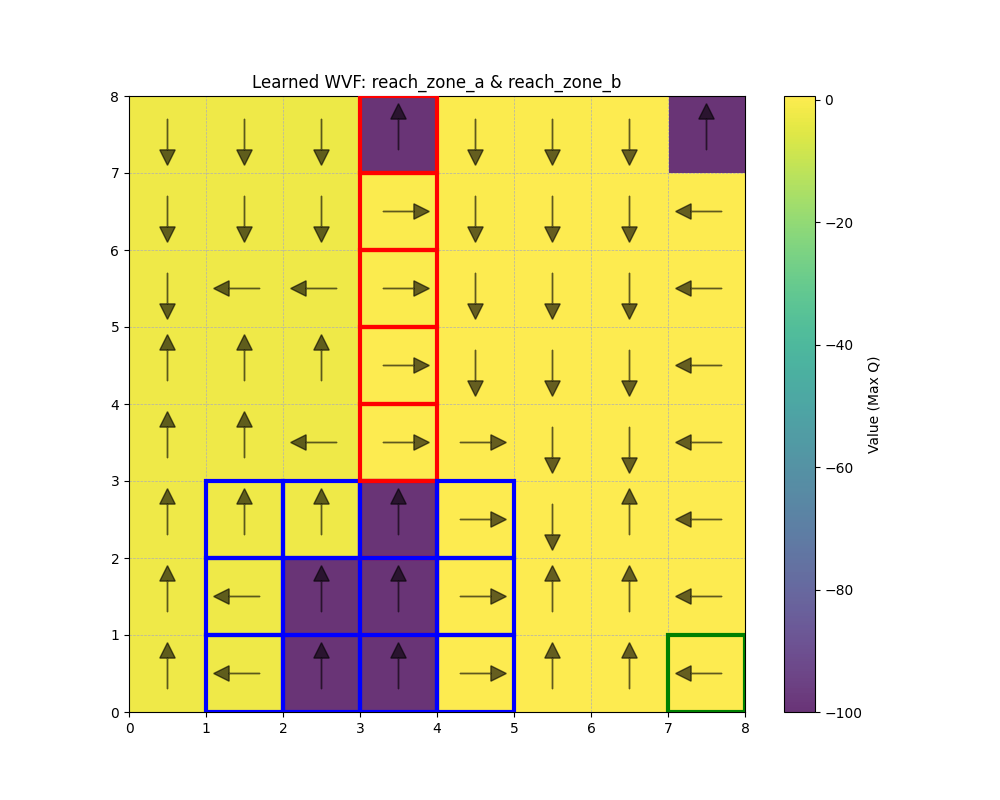
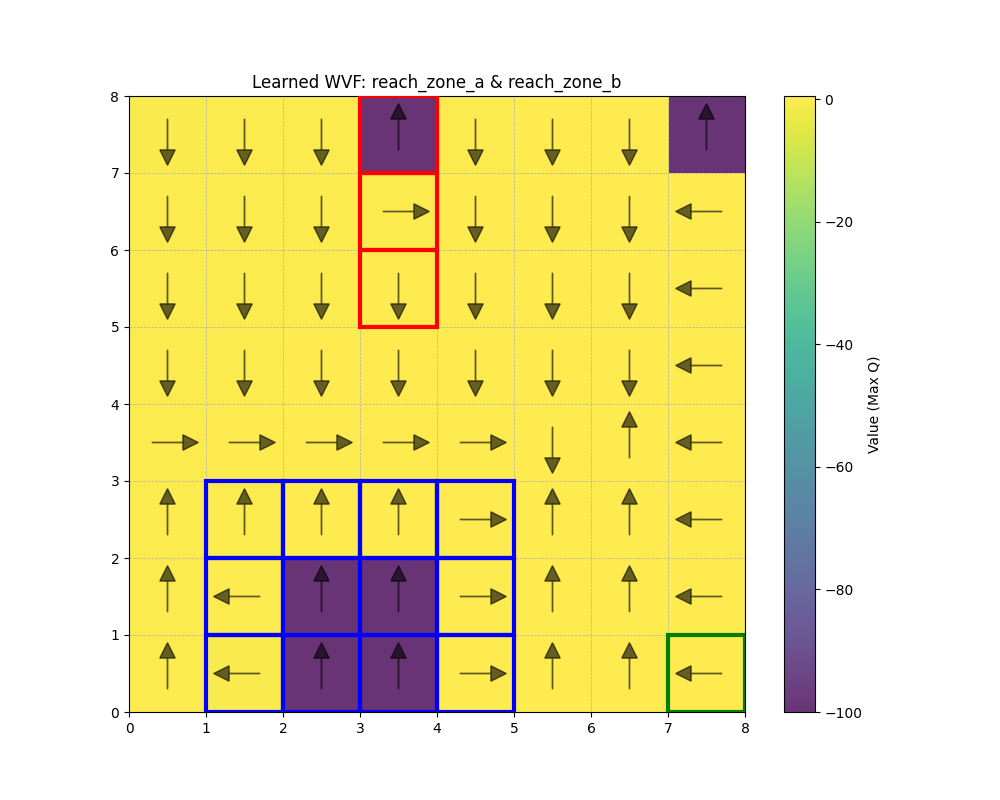
Add decision tree policy

diff --git a/project/extension/tests/test_ltlf2dfa.py b/project/extension/tests/test_ltlf2dfa.py
@@ -20,7 +20,7 @@ def test_sequential_ltlf_policy():
     env = GridWorldEnv(x_min=0, x_max=7, y_min=0, y_max=7)
     
     # 2. Define Regions & Task Predicates
-    goal_a_pred = lambda s: s.x == 3 and 1 <= s.y <= 7
+    goal_a_pred = lambda s: s.x == 3 and 5 <= s.y <= 7
     goal_b_pred = lambda s: s.x == 7 and s.y == 0
     goal_c_pred = lambda s: 1 <= s.x <= 4 and 0 <= s.y <= 2
 
@@ -54,12 +54,12 @@ def test_sequential_ltlf_policy():
     else:
         print("\nNo checkpoint found. Training agent...")
         # Increase episodes to handle the wall/8x8 space
-        train_goal_oriented(env, agent, episodes=100000, verbose=False)
+        train_goal_oriented(env, agent, episodes=500000, verbose=False)
         print(f"Saving trained agent to {checkpoint_path}...")
         agent.save(checkpoint_path)
 
     # 4. LTLf Task Composition
-    formula_str = "(F reach_zone_a && X F reach_zone_b)"
+    formula_str = "avoid_zone_a U (reach_zone_b && XF reach_zone_a)"
     print(f"\nComposing LTLf Task: {formula_str}")
     ltlf_task = LTLfTask(formula_str, agent)
     ltlf_task.print_dfa_info()
@@ -77,25 +77,34 @@ def test_sequential_ltlf_policy():
         dt_edge_policies = ltlf_task.load_dt_policies(dt_checkpoint_path)
     else:
         print("\nExtracting VIPER Decision Trees for composed policies...")
-        # Use standard VIPER parameters. 
+        # Increase parameters to improve DT accuracy and resolve infinite loops
         dt_edge_policies = ltlf_task.extract_dt_policies(
             env, 
             max_depth=100,
             max_iters=5, 
             n_batch_rollouts=1000, 
             max_samples=500000,
-            n_test_rollouts=200,
-            accepting_states={"5"}
+            n_test_rollouts=50,
+            accepting_states={"4"}
         )
-    print(f"Saving distilled DT policies to {dt_checkpoint_path}...")
-    ltlf_task.save_dt_policies(dt_edge_policies, dt_checkpoint_path)
+        print(f"Saving distilled DT policies to {dt_checkpoint_path}...")
+        ltlf_task.save_dt_policies(dt_edge_policies, dt_checkpoint_path)
+
+    # 6.5 Visualize Distilled DT Policies
+    print("\nVisualizing Distilled Decision Tree Policies...")
+    for (u, v), dt_policy in dt_edge_policies.items():
+        attr = ltlf_task.nx_graph.get_edge_data(u, v)[0]
+        composed_expr = attr.get('composed_expr', f'edge_{u}_{v}')
+        save_path = os.path.join(static_dir, f"dt_policy_{composed_expr}.png")
+        print(f"  Rendering DT policy for edge {u} -> {v}: {composed_expr}")
+        renderer.render_policy(dt_policy, f"DT: {composed_expr}", save_path=save_path)
 
     # 7. Simulation Loop
     from extension.executor import TaskExecutor, QFunctionPolicy
 
     # Have to manually pass accepting states due to bug in pydot conversion
     tracker = DFATracker(ltlf_task.nx_graph, agent.tasks)
-    tracker.accepting_states = {"5"}  # Patch bug with MONA parse
+    tracker.accepting_states = {"4"}  # Patch bug with MONA parse
     tracker.valid_states = tracker._find_valid_states()
 
     fallback = QFunctionPolicy(agent.get_q_function(Proposition.WVF_MIN))

diff --git a/project/extension/render.py b/project/extension/render.py
@@ -1,7 +1,7 @@
 import matplotlib.pyplot as plt
 import matplotlib.patches as patches
 import numpy as np
-from typing import List, TYPE_CHECKING
+from typing import List, TYPE_CHECKING, Union
 from extension.base import State, Action
 from extension.goal import TerminalRegion
 from extension.env import GridWorldEnv
@@ -10,6 +10,7 @@ if TYPE_CHECKING:
     from extension.policy import WVFMultiGoalAgent
     from extension.proposition import Proposition
     from extension.algebra import QFunction
+    from extension.executor import EdgePolicy
 
 class GridWorldRenderer:
     def __init__(self, env: GridWorldEnv, terminal_regions: List[TerminalRegion]):
@@ -64,8 +65,11 @@ class GridWorldRenderer:
                             )
                         ax.add_patch(goal_rect)
 
-    def _draw_policy_arrows(self, ax, q_function: 'QFunction'):
+    def _draw_policy_arrows(self, ax, policy: Union['QFunction', 'EdgePolicy']):
         """Draws arrows indicating the greedy action at each cell."""
+        from extension.executor import EdgePolicy
+        is_edge = isinstance(policy, EdgePolicy)
+        
         action_map = {
             Action.UP: (0, 0.4),
             Action.DOWN: (0, -0.4),
@@ -76,13 +80,18 @@ class GridWorldRenderer:
         for x in range(self.env.x_min, self.env.x_max + 1):
             for y in range(self.env.y_min, self.env.y_max + 1):
                 state = State(x=x, y=y)
-                # Find best action
-                q_values = {a: q_function(state, a) for a in Action}
-                # Only draw if there's meaningful learning (some values != 0)
-                if all(q == 0 for q in q_values.values()):
-                    continue
-                    
-                best_action = max(q_values, key=q_values.get)
+                
+                if is_edge:
+                    best_action = policy.get_action(state)
+                else:
+                    # Find best action
+                    q_values = {a: policy(state, a) for a in Action}
+                    # Only draw if there's meaningful learning (some values != 0)
+                    if all(q == 0 for q in q_values.values()):
+                        continue
+                        
+                    best_action = max(q_values, key=q_values.get)
+                
                 dx, dy = action_map[best_action]
                 
                 # Draw arrow centered in cell

diff --git a/project/extension/ltlf_task.py b/project/extension/ltlf_task.py
@@ -28,7 +28,7 @@ class LTLfTask:
         
         # Get DOT string from ltlf2dfa
         dot_str = formula.to_dfa()
-        
+        print(dot_str)
         # Convert DOT to NetworkX MultiDiGraph
         pydot_graph = pydot.graph_from_dot_data(dot_str)[0]
         return nx.drawing.nx_pydot.from_pydot(pydot_graph)
